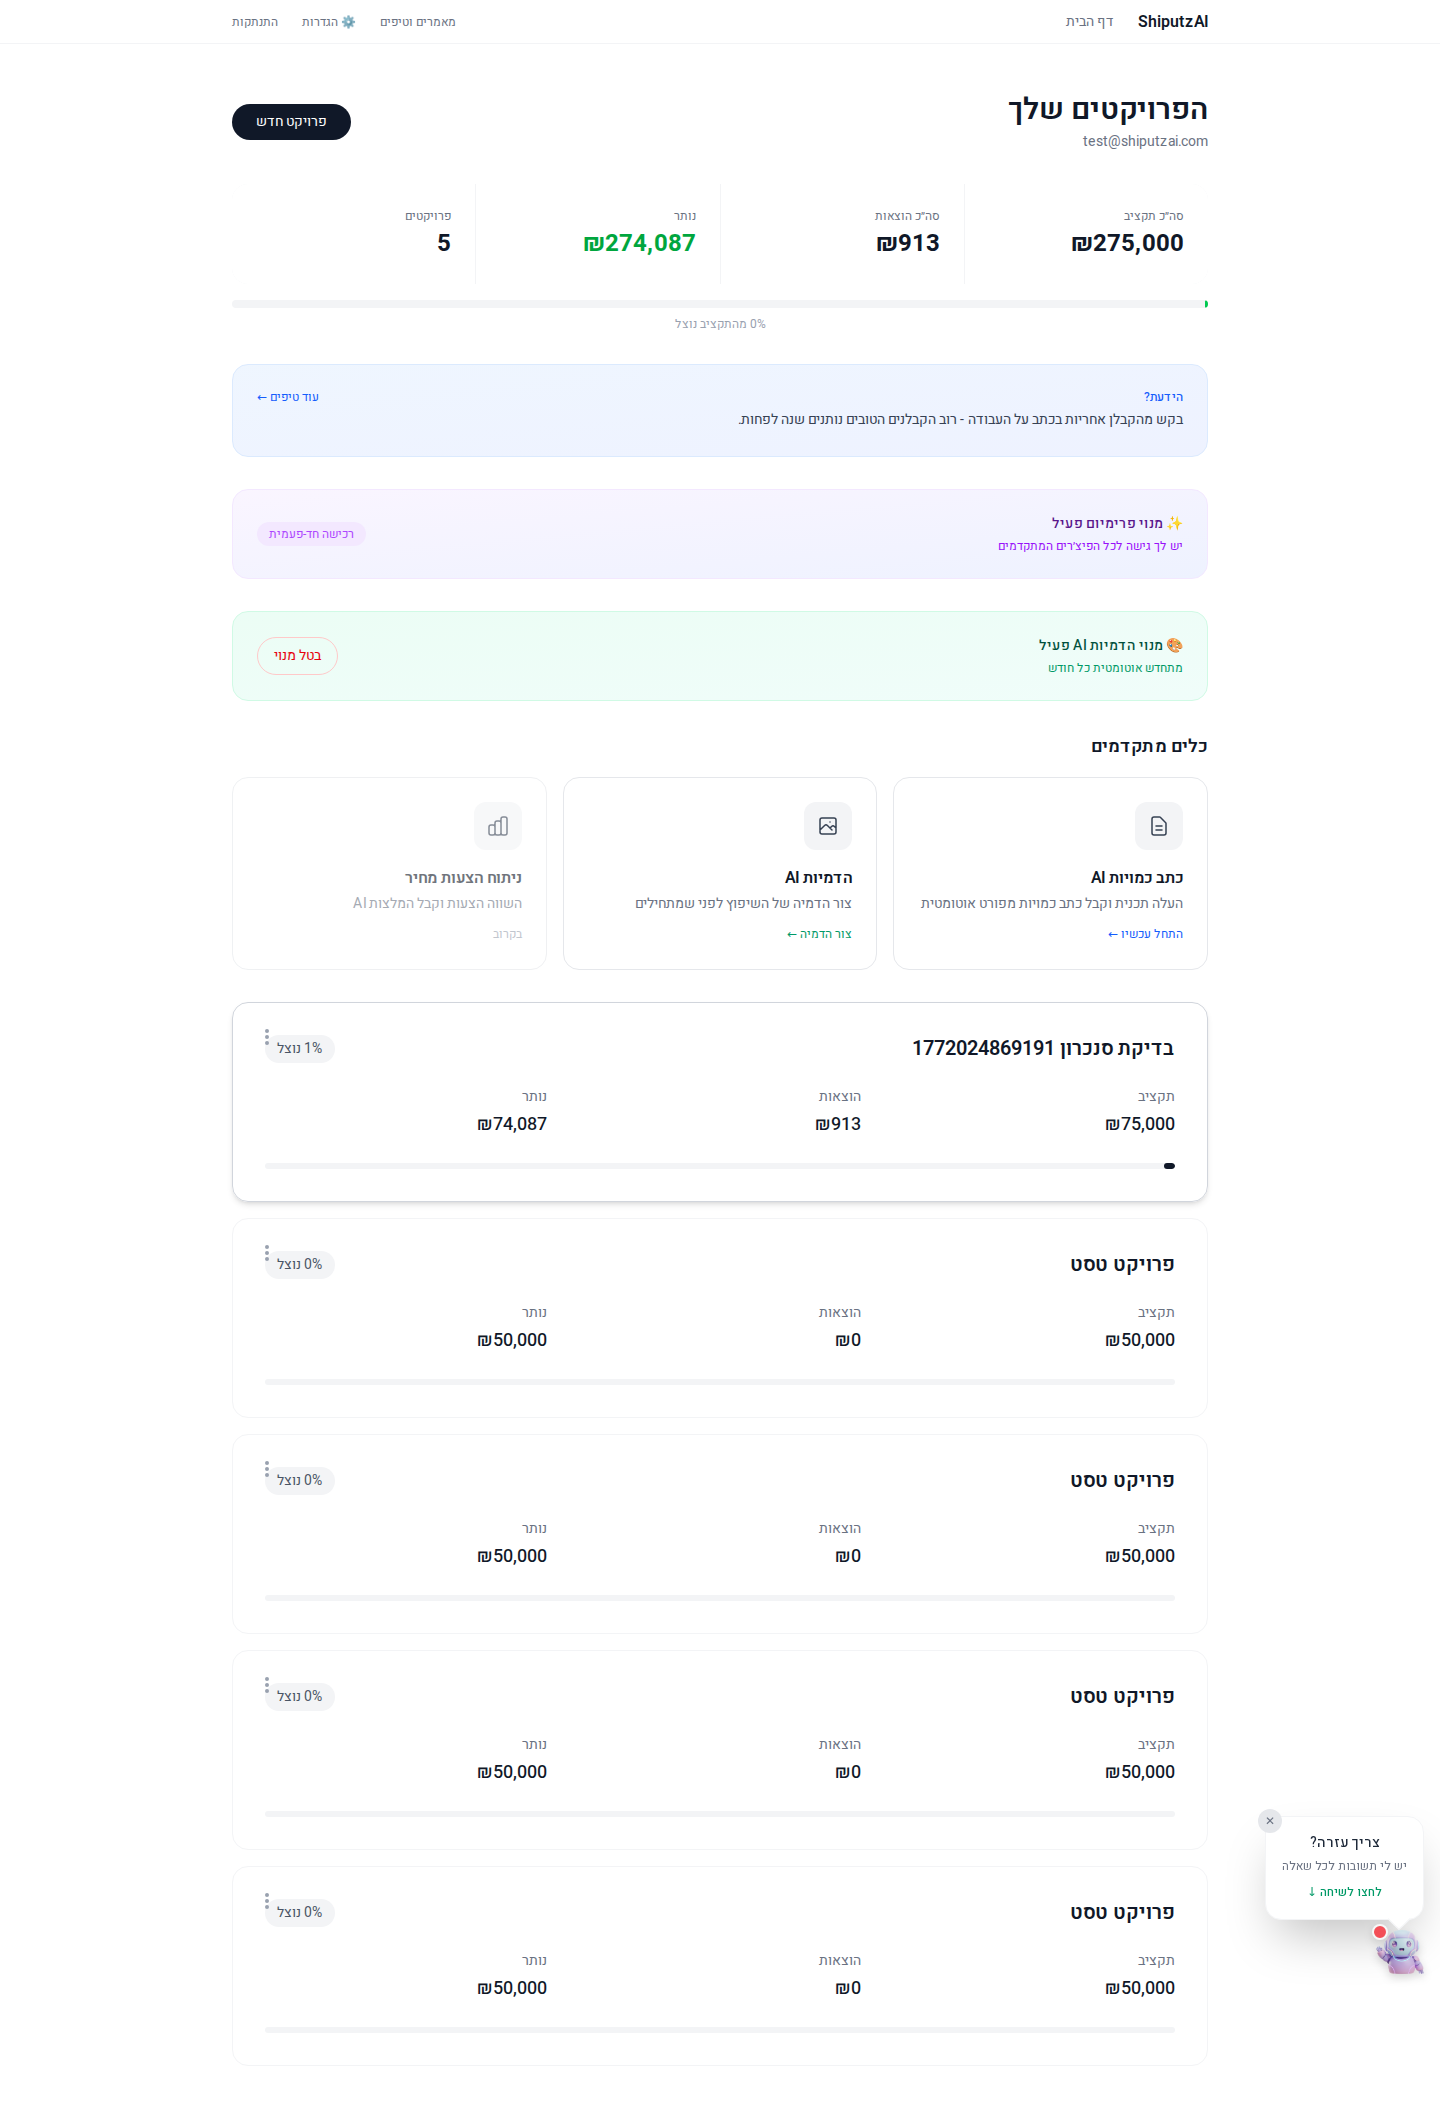
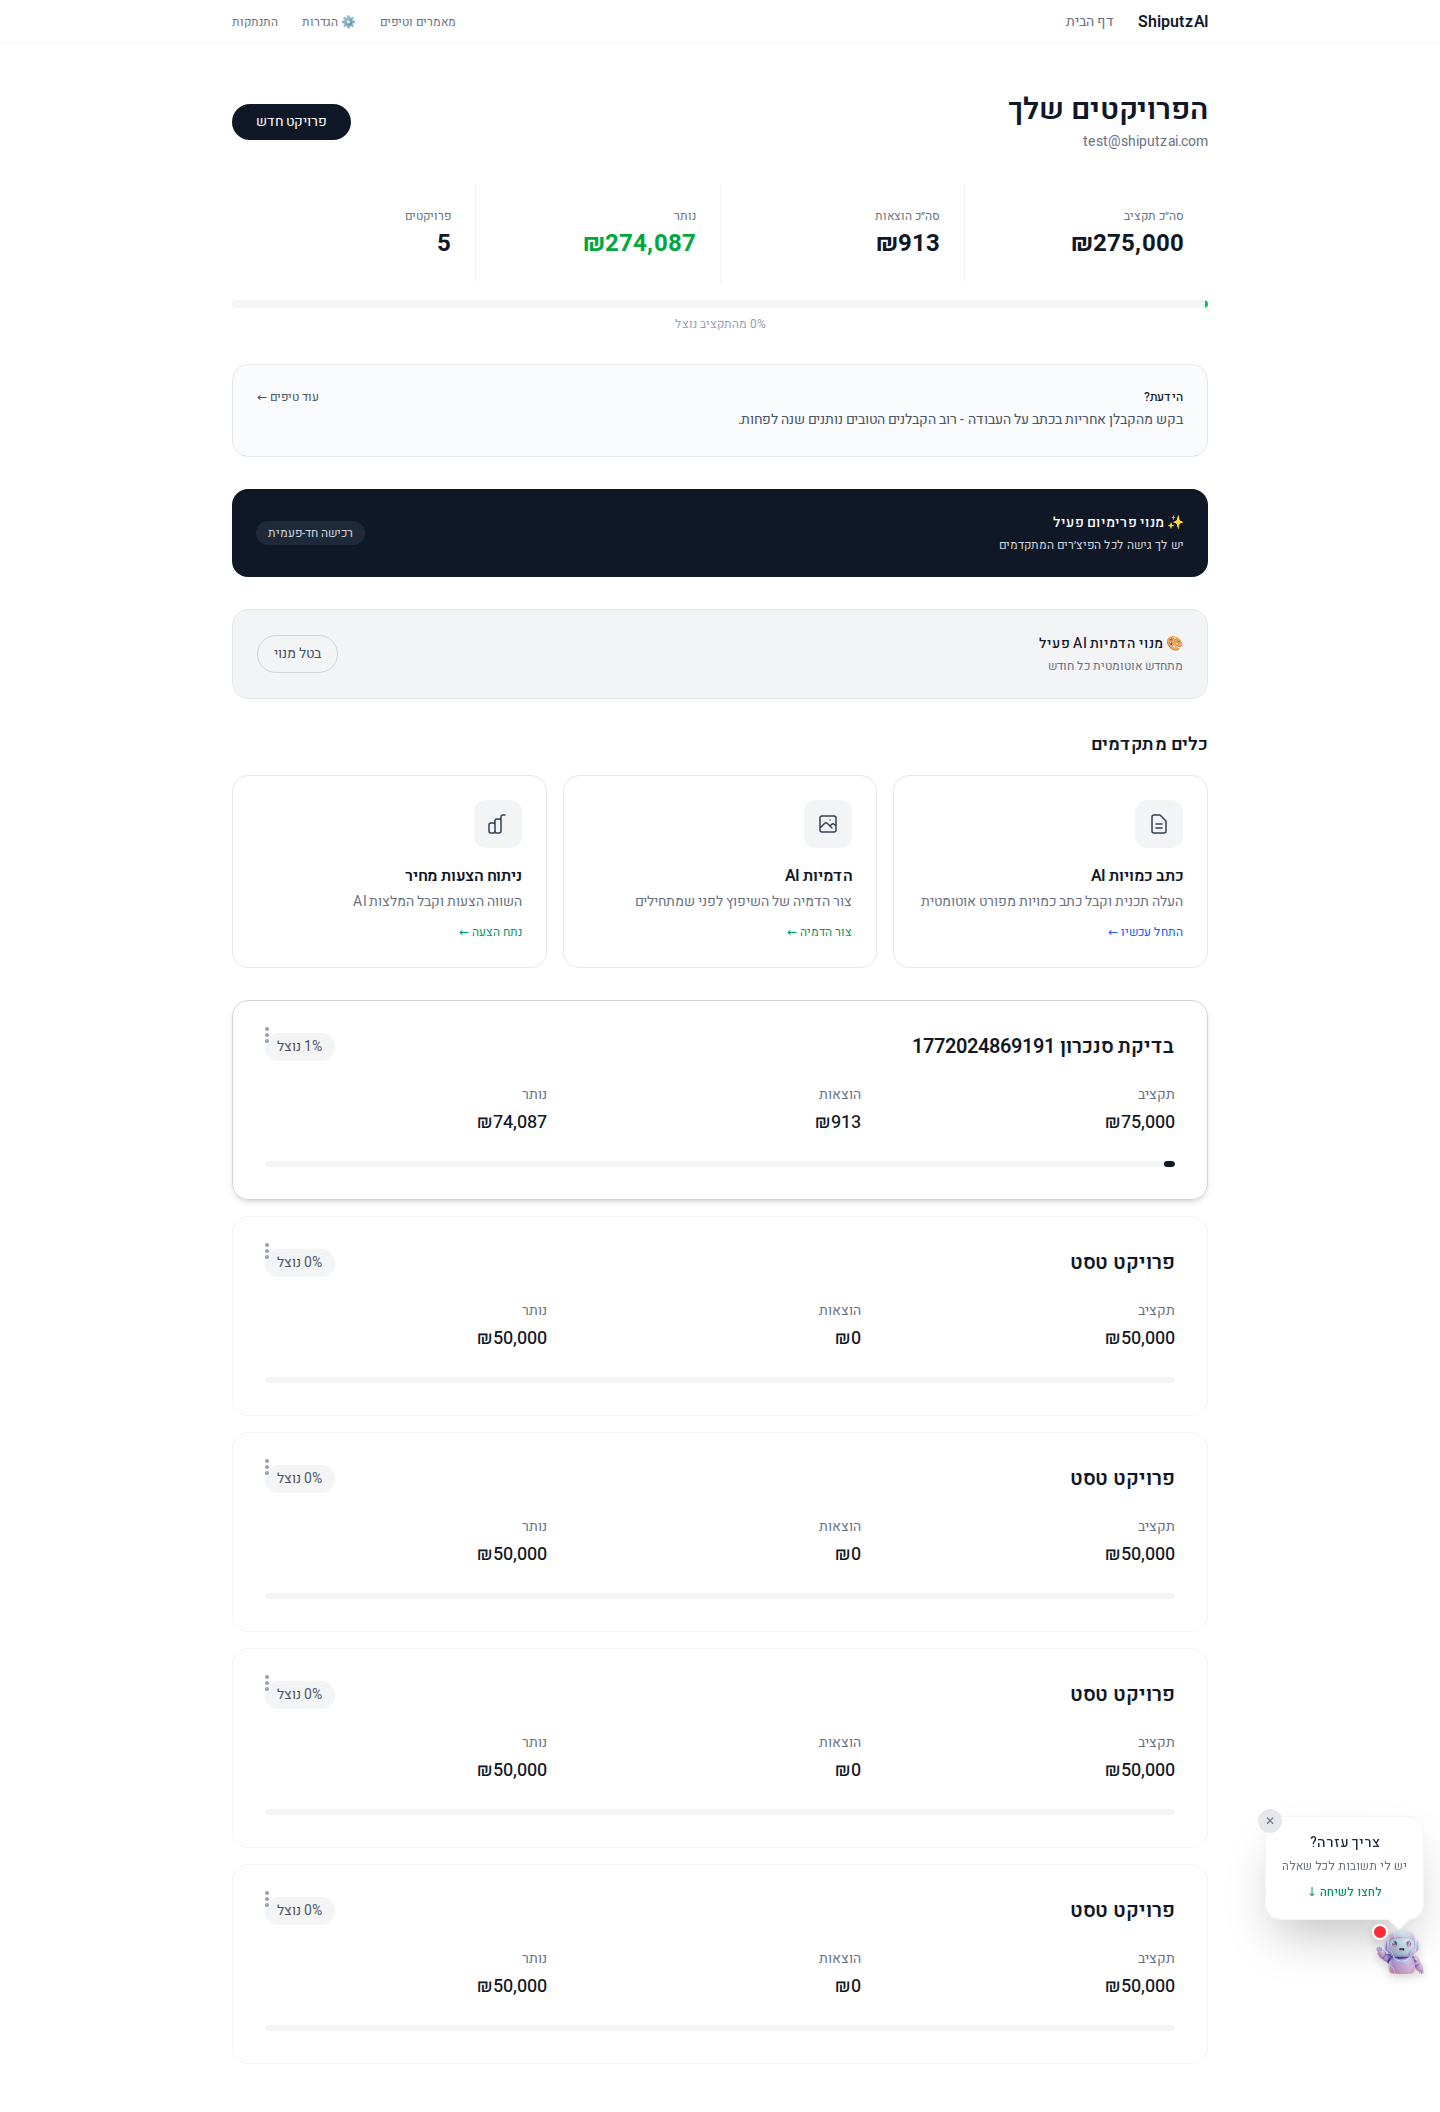
Remove emojis from subscription status cards

diff --git a/src/app/dashboard/page.tsx b/src/app/dashboard/page.tsx
@@ -601,7 +601,7 @@ function DashboardContent() {
           <div className="mb-8 bg-gray-900 rounded-2xl p-6">
             <div className="flex items-center justify-between">
               <div>
-                <p className="text-sm font-medium text-white mb-1">✨ מנוי פרימיום פעיל</p>
+                <p className="text-sm font-medium text-white mb-1">מנוי פרימיום פעיל</p>
                 <p className="text-xs text-gray-300">יש לך גישה לכל הפיצ׳רים המתקדמים</p>
               </div>
               <span className="text-xs text-gray-300 bg-gray-800 px-3 py-1 rounded-full">
@@ -616,7 +616,7 @@ function DashboardContent() {
           <div className="mb-8 bg-gray-100 rounded-2xl p-6 border border-gray-200">
             <div className="flex items-center justify-between">
               <div>
-                <p className="text-sm font-medium text-gray-900 mb-1">🎨 מנוי הדמיות AI פעיל</p>
+                <p className="text-sm font-medium text-gray-900 mb-1">מנוי הדמיות AI פעיל</p>
                 {visionSubInfo?.cancelAtPeriodEnd ? (
                   <p className="text-xs text-amber-600">
                     יבוטל ב-{visionSubInfo.periodEnd ? new Date(visionSubInfo.periodEnd).toLocaleDateString('he-IL') : 'סוף התקופה'}
